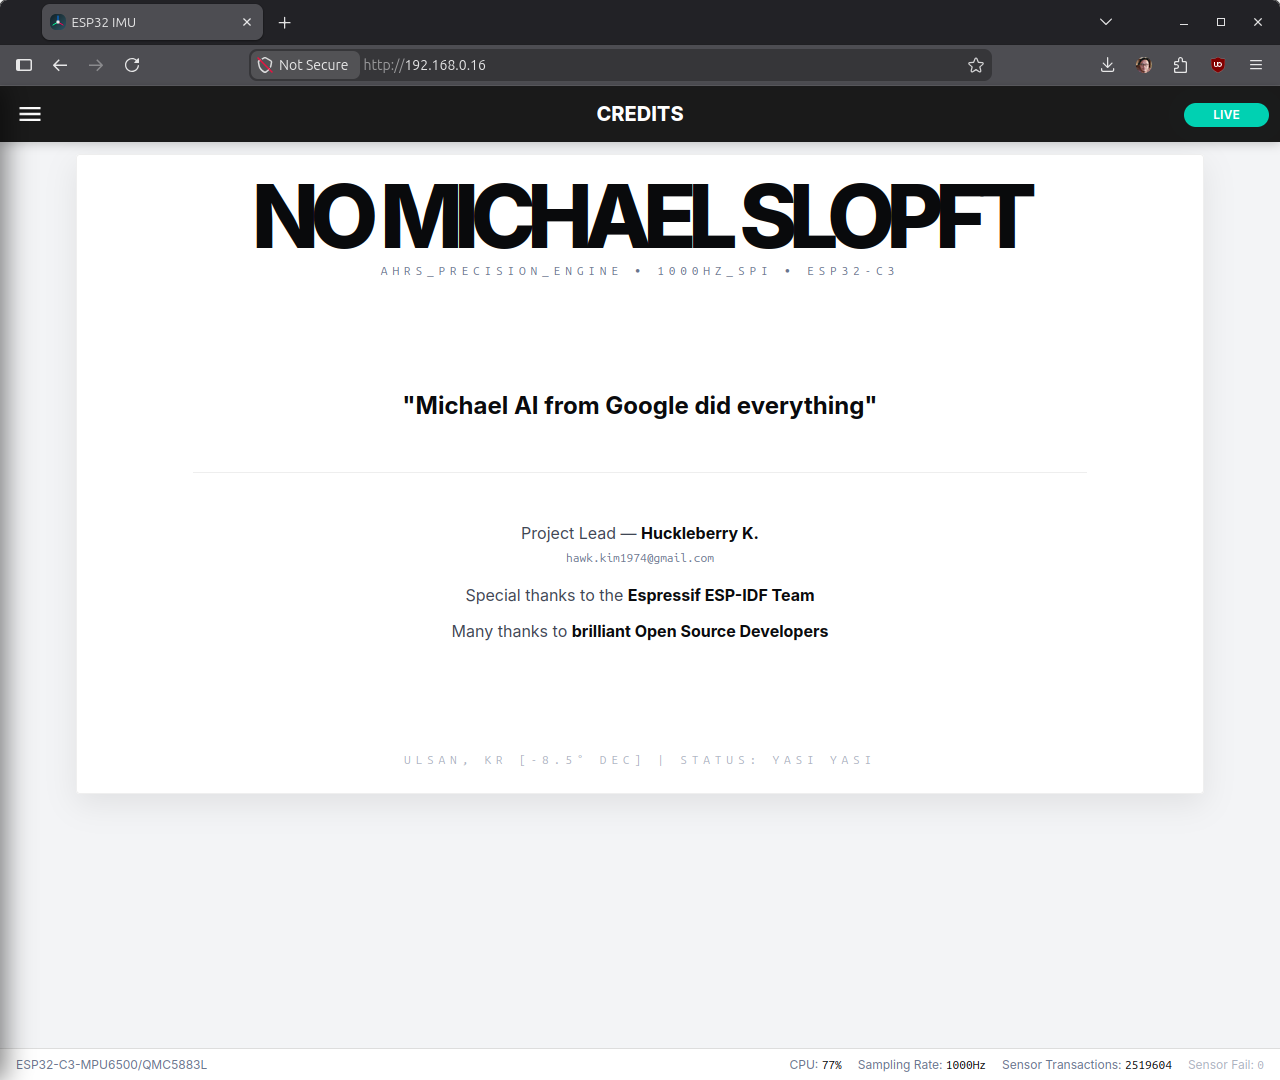
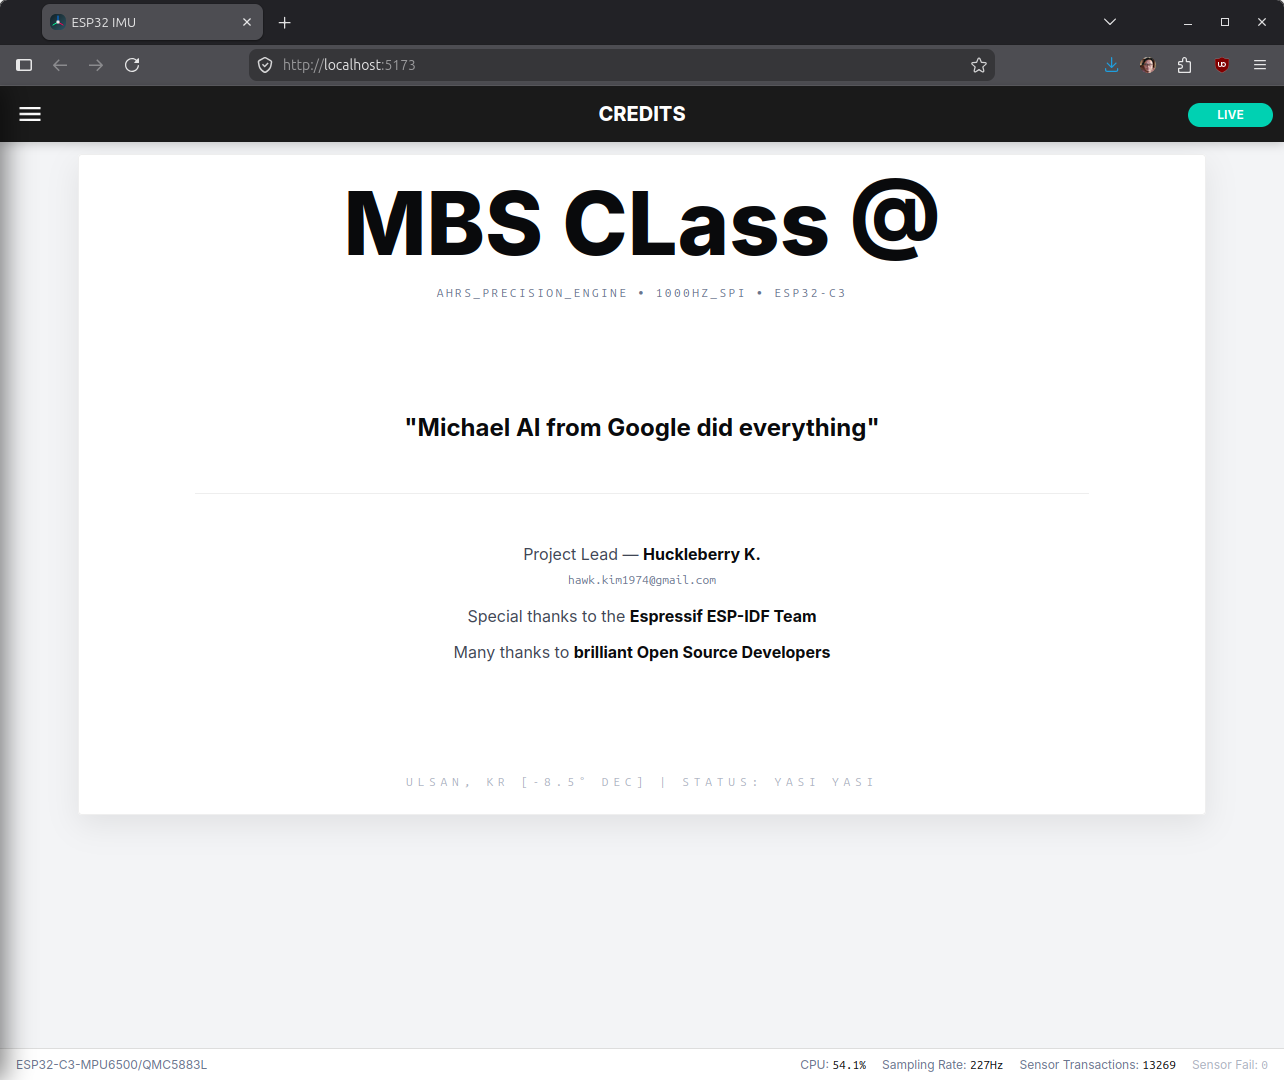
mbs class

diff --git a/web-front/src/components/CreditsView.vue b/web-front/src/components/CreditsView.vue
@@ -4,14 +4,20 @@
       <div class="card-content px-5 py-8">
         
         <!-- THE MISSION -->
-        <div class="has-text-centered mb-6 pb-6">
-          <p class="title is-1 has-text-black has-text-weight-black tracking-tighter mb-2" style="font-size: 5.5rem; line-height: 0.85;">
-            NO MICHAEL SLOPFT
-          </p>
-          <p class="is-family-monospace is-size-7 has-text-grey uppercase tracking-widest">
-            AHRS_PRECISION_ENGINE • 1000HZ_SPI • ESP32-C3
-          </p>
-        </div>
+      <div class="has-text-centered mb-6 pb-6">
+        <!-- Increased line-height to 1.1 for readability and used Bulma's weight helper -->
+        <p class="title is-1 has-text-black has-text-weight-black mb-4"
+           style="font-size: 5.5rem; line-height: 1;">
+          MBS CLass <span style="position: relative; top: -0.15em;">@</span>
+        </p>
+
+        <!-- Replaced tracking-widest with standard CSS letter-spacing -->
+        <p class="is-family-monospace is-size-7 has-text-grey is-uppercase" 
+           style="letter-spacing: 0.2em;">
+          AHRS_PRECISION_ENGINE • 1000HZ_SPI • ESP32-C3
+        </p>
+      </div>
+
 
         <!-- THE ULTIMATE CREDIT -->
         <div class="columns is-centered mt-6">
